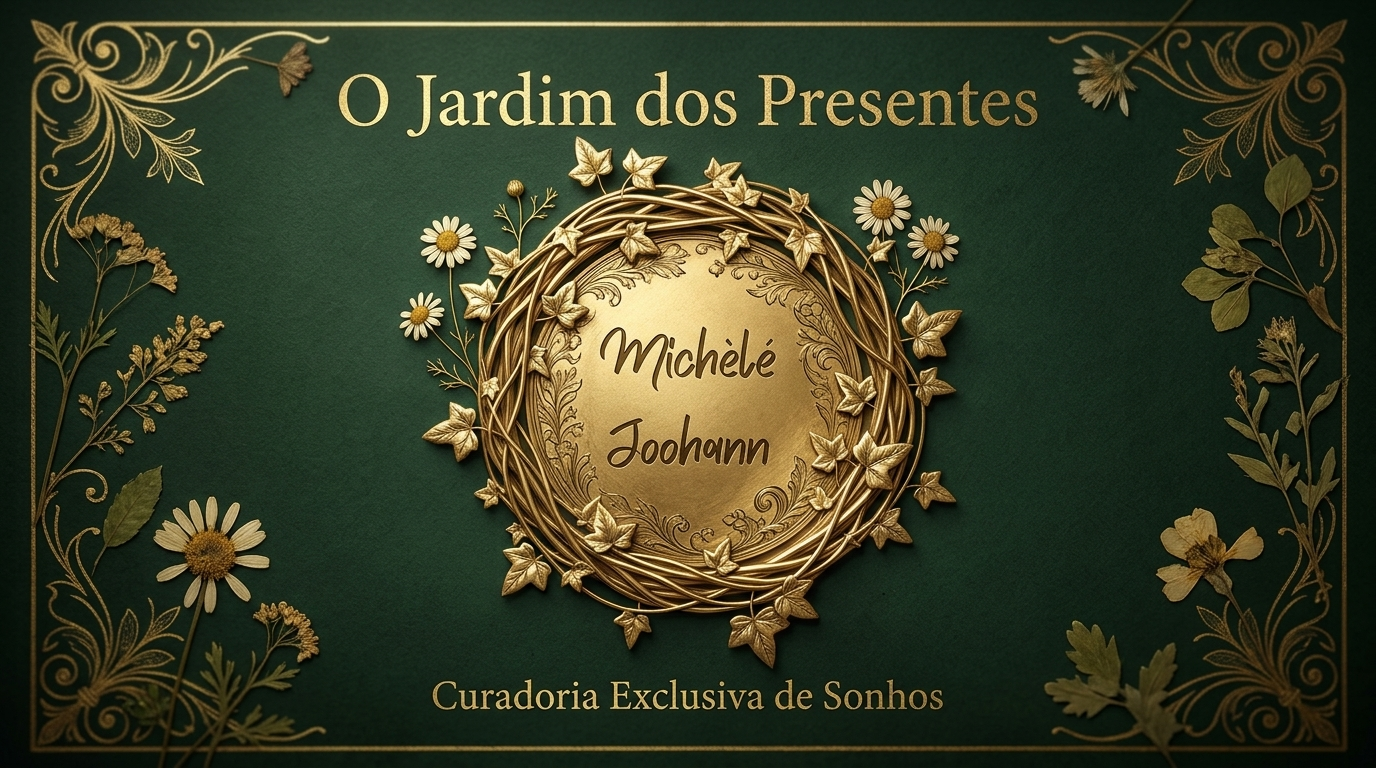
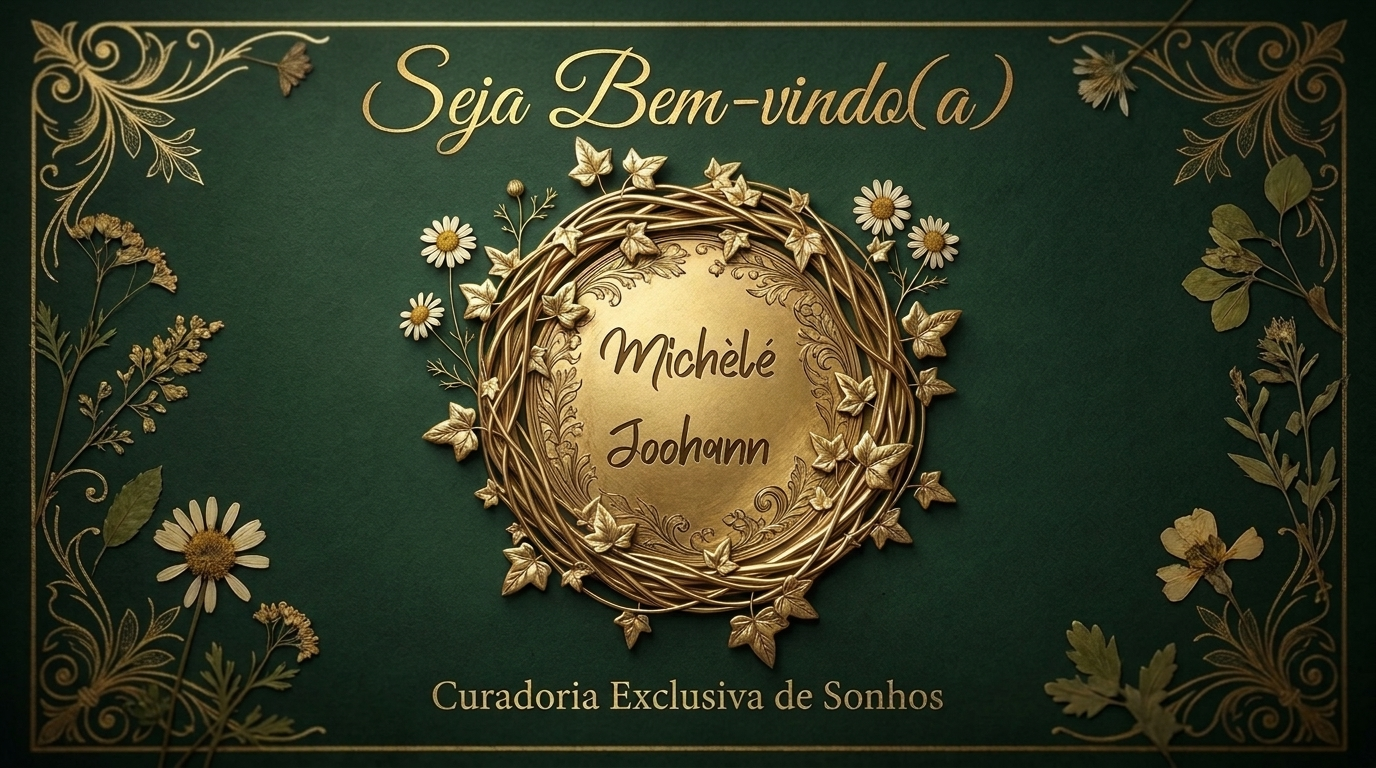
feat(seo): atualiza og-image e meta tags com mensagem de boas-vindas acolhedora

diff --git a/index.html b/index.html
@@ -5,7 +5,7 @@
   <meta charset="UTF-8" />
   <meta name="viewport" content="width=device-width, initial-scale=1.0" />
   <meta name="theme-color" content="#314738" />
-  <meta name="description" content="O Jardim dos Presentes de Michèlé Joohann — Curadoria Exclusiva de Sonhos: Desejar. Cultivar. Conquistar. Florescer. ✨" />
+  <meta name="description" content="Seja muito bem-vindo(a) ao Jardim dos Presentes de Michèlé Joohann — Curadoria Exclusiva de Sonhos: Desejar. Cultivar. Conquistar. Florescer. ✨" />
 
   <!-- Open Graph / Facebook / WhatsApp -->
   <meta property="og:type" content="website" />
@@ -13,21 +13,21 @@
   <meta property="og:site_name" content="O Jardim dos Presentes" />
   <meta property="og:url" content="https://michelejoohann.github.io/jardim-dos-presentes/" />
   <meta property="og:title" content="O Jardim dos Presentes — Michèlé Joohann" />
-  <meta property="og:description" content="Curadoria Exclusiva de Sonhos: Desejar. Cultivar. Conquistar. Florescer. ✨" />
+  <meta property="og:description" content="Seja muito bem-vindo(a)! Curadoria Exclusiva de Sonhos: Desejar. Cultivar. Conquistar. Florescer. ✨" />
   <meta property="og:image" content="https://michelejoohann.github.io/jardim-dos-presentes/og-image.jpg" />
   <meta property="og:image:secure_url" content="https://michelejoohann.github.io/jardim-dos-presentes/og-image.jpg" />
   <meta property="og:image:type" content="image/jpeg" />
   <meta property="og:image:width" content="1376" />
   <meta property="og:image:height" content="768" />
-  <meta property="og:image:alt" content="O Jardim dos Presentes de Michèlé Joohann — Curadoria Exclusiva de Sonhos" />
+  <meta property="og:image:alt" content="Seja Bem-vindo(a) — O Jardim dos Presentes de Michèlé Joohann" />
 
   <!-- Twitter / X -->
   <meta name="twitter:card" content="summary_large_image" />
   <meta name="twitter:url" content="https://michelejoohann.github.io/jardim-dos-presentes/" />
   <meta name="twitter:title" content="O Jardim dos Presentes — Michèlé Joohann" />
-  <meta name="twitter:description" content="Curadoria Exclusiva de Sonhos: Desejar. Cultivar. Conquistar. Florescer. ✨" />
+  <meta name="twitter:description" content="Seja muito bem-vindo(a)! Curadoria Exclusiva de Sonhos: Desejar. Cultivar. Conquistar. Florescer. ✨" />
   <meta name="twitter:image" content="https://michelejoohann.github.io/jardim-dos-presentes/og-image.jpg" />
-  <meta name="twitter:image:alt" content="O Jardim dos Presentes de Michèlé Joohann — Curadoria Exclusiva de Sonhos" />
+  <meta name="twitter:image:alt" content="Seja Bem-vindo(a) — O Jardim dos Presentes de Michèlé Joohann" />
 
   <link rel="canonical" href="https://michelejoohann.github.io/jardim-dos-presentes/" />
   <link rel="icon" type="image/svg+xml" href="/jardim-dos-presentes/favicon.svg" />
